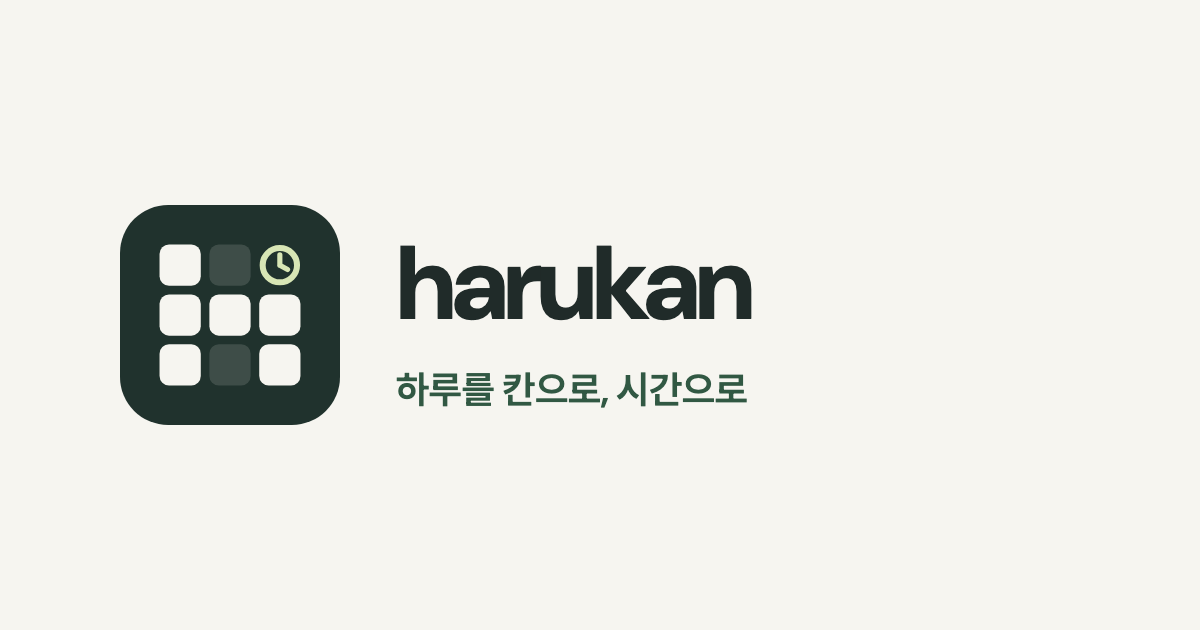
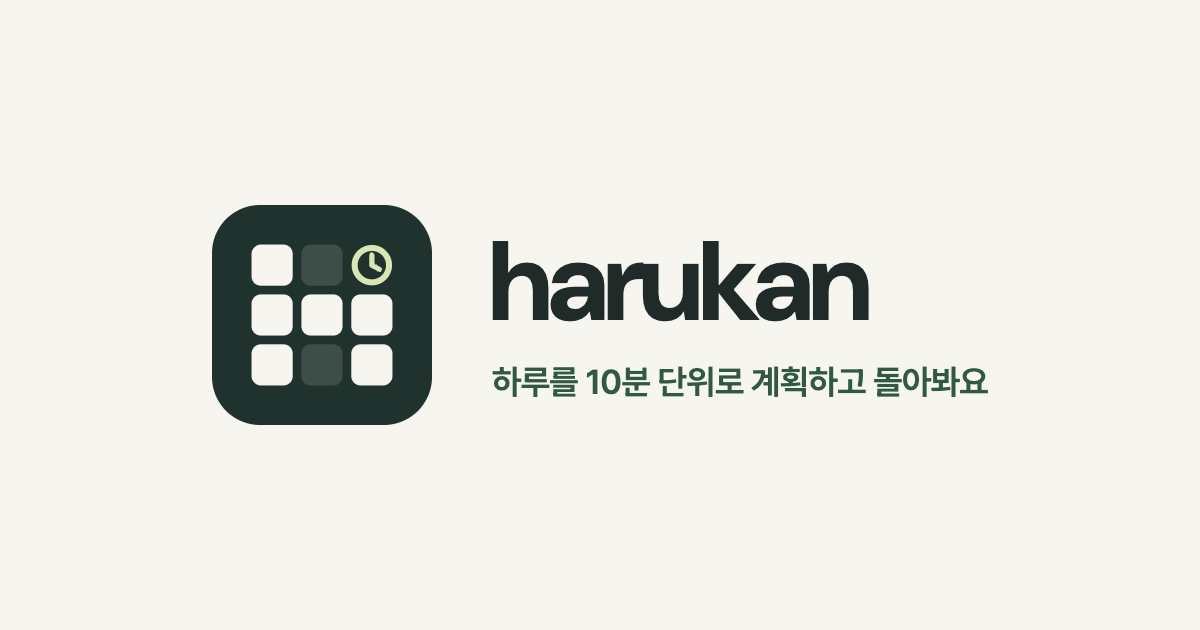
harukan: 공유 미리보기 그림 가운데 정렬·새 문구, 개인정보처리방침을 필수 항목만 짧게, 첫 로딩에 '공개 전 검토 중' 안내가 잠깐 뜨지 않게
- og.png를 가운데로 다시 만들고 '하루를 10분 단위로 계획하고 돌아봐요', og:image에 ?v=20261020 (메신저 캐시)
- 처리방침: 정보 4줄 표, 파기, 위탁·국외 이전 4곳, 쿠키, 권리·책임자, 안전 조치, 변경 (약 절반 길이)
- 법적 안내·가입 준비 안내는 /api/site 응답을 받은 뒤에만 (실패하면 기본값으로 표시)

Changed region(s): [[0.0925, 0.3016, 0.8325, 0.6937]]

diff --git a/apps/harukan/src/legal.tsx b/apps/harukan/src/legal.tsx
@@ -8,33 +8,28 @@ export function Legal({kind,site}:{kind:string;site:Site}) {
     {!site.legalReady&&<p className="notice">{t("공개 전 검토 중인 문서입니다. 운영 환경과 시행일을 확인한 뒤 최종 게시합니다.")}</p>}
     <p className="legal-date">{l.publishedAt?`${pair("시행일","Effective date")} ${l.publishedAt}`:t("시행일: 공개 전 확정 예정")}</p>
     {kind==='privacy'?<>
-      <p>{pair(`${operator}은(는) harukan 플래너를 운영하며 다음과 같이 개인정보를 처리합니다.`, `${operator} operates the harukan planner and processes personal information as described below.`)}</p>
-      <h2>{t("처리하는 정보와 목적")}</h2><table className="policy-table"><thead><tr><th scope="col" id="policy-0-0">{t("정보")}</th><th scope="col" id="policy-0-1">{t("목적")}</th><th scope="col" id="policy-0-2">{t("보유 기간")}</th></tr></thead><tbody>
-      <tr><td headers="policy-0-0" data-label={t("정보")}>{pair("이메일 주소, 닉네임, 이메일 확인 시각, 비밀번호 해시, 가입 시각, 약관 확인 버전","Email address, nickname, email confirmation time, password hash, sign-up time, accepted terms version")}</td><td headers="policy-0-1" data-label={t("목적")}>{pair("회원 식별·로그인·화면 표시·비밀번호 재설정","Identifying members, sign-in, on-screen name, password reset")}</td><td headers="policy-0-2" data-label={t("보유 기간")}>{pair("회원 탈퇴까지(가입 후 하루 안에 이메일을 확인하지 않으면 그때 삭제)","Until you delete your account (deleted after a day if the email is never confirmed)")}</td></tr>
-      <tr><td headers="policy-0-0" data-label={t("정보")}>{t("일정·실제 활동·할 일·메모·날짜·시간대·변경 버전")}</td><td headers="policy-0-1" data-label={t("목적")}>{t("개인 플래너 저장과 조회")}</td><td headers="policy-0-2" data-label={t("보유 기간")}>{t("삭제 또는 회원 탈퇴까지")}</td></tr>
-      <tr><td headers="policy-0-0" data-label={t("정보")}>{pair("이메일 확인·비밀번호 재설정 링크의 해시와 보낼 주소","Hashes of email-check and password-reset links, with the address they go to")}</td><td headers="policy-0-1" data-label={t("목적")}>{pair("이메일 주소 확인·비밀번호 재설정","Confirming an address, resetting a password")}</td><td headers="policy-0-2" data-label={t("보유 기간")}>{pair("사용 즉시 삭제, 미사용 시 확인 링크 하루·재설정 링크 30분 뒤 만료, 이후 1시간 이내 정리","Deleted once used; otherwise check links expire after a day and reset links after 30 minutes, then cleared within an hour")}</td></tr>
-      <tr><td headers="policy-0-0" data-label={t("정보")}>{t("로그인 세션 식별자와 요청 확인 값")}</td><td headers="policy-0-1" data-label={t("목적")}>{t("로그인 유지·요청 검증")}</td><td headers="policy-0-2" data-label={t("보유 기간")}>{pair("로그아웃하거나 마지막 이용 후 30일","Until you sign out, or 30 days after your last visit")}</td></tr>
-      <tr><td headers="policy-0-0" data-label={t("정보")}>{pair("IP 주소·이메일에서 만든 시도 제한용 해시","Rate-limit hashes made from IP address and email")}</td><td headers="policy-0-1" data-label={t("목적")}>{pair("로그인·가입·재설정 남용 방지","Preventing abuse of sign-in, sign-up and reset")}</td><td headers="policy-0-2" data-label={t("보유 기간")}>{t("최대 24시간 뒤 만료, 이후 1시간 이내 정리")}</td></tr>
-      <tr><td headers="policy-0-0" data-label={t("정보")}>{t("탈퇴한 계정의 무작위 식별자와 탈퇴 시각")}</td><td headers="policy-0-1" data-label={t("목적")}>{t("장애 복구 시 탈퇴 계정의 재생성 방지")}</td><td headers="policy-0-2" data-label={t("보유 기간")}>{t("8일 뒤 만료, 이후 1시간 이내 정리")}</td></tr>
-      <tr><td headers="policy-0-0" data-label={t("정보")}>{t("문의 이메일과 이용자가 보낸 내용")}</td><td headers="policy-0-1" data-label={t("목적")}>{t("문의 처리")}</td><td headers="policy-0-2" data-label={t("보유 기간")}>{t("처리 완료 후 1년. 삭제 요청 시 별도 법적 보존 사유를 확인해 처리")}</td></tr>
+      {/* Short on purpose: each item the law asks for (항목·목적·기간, 파기, 위탁·국외 이전, 쿠키, 권리, 책임자, 안전조치, 변경), once. */}
+      <p>{pair(`${operator}은(는) harukan을 운영하며 아래와 같이 개인정보를 처리합니다. 개인정보를 제3자에게 제공하지 않습니다.`, `${operator} runs harukan and handles personal information as below. We do not give personal information to third parties.`)}</p>
+      <h2>{pair("처리하는 정보","What we keep")}</h2><table className="policy-table"><thead><tr><th scope="col" id="policy-0-0">{pair("정보","Information")}</th><th scope="col" id="policy-0-1">{pair("목적","Purpose")}</th><th scope="col" id="policy-0-2">{pair("보유 기간","Kept for")}</th></tr></thead><tbody>
+        <tr><td headers="policy-0-0" data-label={pair("정보","Information")}>{pair("이메일, 닉네임, 비밀번호(해시로만), 가입·이메일 확인 시각","Email, nickname, password (hash only), sign-up and email confirmation times")}</td><td headers="policy-0-1" data-label={pair("목적","Purpose")}>{pair("가입·로그인·비밀번호 재설정","Sign-up, sign-in, password reset")}</td><td headers="policy-0-2" data-label={pair("보유 기간","Kept for")}>{pair("탈퇴까지. 가입 후 하루 안에 이메일을 확인하지 않으면 삭제","Until you delete your account; deleted after a day if the email is never confirmed")}</td></tr>
+        <tr><td headers="policy-0-0" data-label={pair("정보","Information")}>{pair("일정·할 일·메모·목표, 시간대","Schedule, tasks, notes, goals, time zone")}</td><td headers="policy-0-1" data-label={pair("목적","Purpose")}>{pair("플래너 저장과 조회","Storing and showing your planner")}</td><td headers="policy-0-2" data-label={pair("보유 기간","Kept for")}>{pair("직접 지우거나 탈퇴할 때까지","Until you delete it or your account")}</td></tr>
+        <tr><td headers="policy-0-0" data-label={pair("정보","Information")}>{pair("로그인 세션, 메일 링크, 시도 제한용 IP 해시","Login session, mail links, hashed IP for rate limits")}</td><td headers="policy-0-1" data-label={pair("목적","Purpose")}>{pair("로그인 유지와 보안","Staying signed in, security")}</td><td headers="policy-0-2" data-label={pair("보유 기간","Kept for")}>{pair("세션 30일, 확인 링크 하루·재설정 링크 30분, 시도 기록 24시간","Session 30 days, check link 1 day, reset link 30 minutes, attempt records 24 hours")}</td></tr>
+        <tr><td headers="policy-0-0" data-label={pair("정보","Information")}>{pair("문의한 이메일 주소와 내용","Your email address and message when you contact us")}</td><td headers="policy-0-1" data-label={pair("목적","Purpose")}>{pair("문의 답변","Answering you")}</td><td headers="policy-0-2" data-label={pair("보유 기간","Kept for")}>{pair("처리 후 1년","1 year after it is resolved")}</td></tr>
       </tbody></table>
-      <p>{pair("비밀번호는 원문으로 저장하지 않습니다. 회원가입에는 이메일과 닉네임만 받고 전화번호·주소·실명은 요구하지 않습니다. 닉네임은 본인 화면에만 보입니다. 입력한 메모 자체에 개인정보가 포함될 수 있습니다.","Passwords are never stored in plain text. Sign-up asks only for an email and a nickname — no phone number, address or real name. The nickname shows only on your own screens. Notes you write may themselves contain personal information.")}</p>
-      <h2>{t("파기와 백업")}</h2><p>{pair("회원 탈퇴 시 계정·세션·메일 링크·일정·할 일·메모·목표와 계획을 운영 데이터베이스에서 삭제합니다. 장애 복구용 백업은 같은 서버에 매일 만들고 7일이 지난 사본은 다음 백업 실행 때 제거합니다. 탈퇴 이전 백업에 남은 자료도 이 주기에 따라 제거하며, 백업 복구 시 별도 탈퇴 기록을 적용하고 모든 로그인 세션을 폐기합니다. 이용자가 내보낸 사본은 이용자가 관리합니다. 문의 메일은 처리 완료 후 1년이 지나면 운영자가 삭제합니다.","Account deletion removes your account, sessions, mail links, schedule, tasks, notes, goals and plans from the live database. Recovery backups are made daily on the same server; copies older than 7 days are removed on the next backup run. Data remaining in a backup made before account deletion is removed on that schedule. Restoring a backup applies a separate deletion journal and discards all login sessions. You manage any copies you export. The operator deletes inquiry emails 1 year after the inquiry is resolved.")}</p>
-      <h2>{t("처리 위탁과 국외 이전")}</h2><p>{pair("온라인 저장과 안전한 접속에 필요한 처리 위탁·보관을 위해 아래 제공자를 이용합니다. 서버 저장 지역은", "We use the following providers for the processing and storage needed for online records and secure access. Server storage location:")}{' '}{l.hostingRegion?(l.hostingRegion.includes("ap-osaka-1")?pair(l.hostingRegion,"Osaka, Japan (ap-osaka-1)"):l.hostingRegion):pair("배포 전 확인 예정","To be confirmed before deployment")}{pair("입니다. 서버 저장, 접속 처리 및 문의 전달은 이용자가 가입·저장·접속·문의할 때 네트워크를 통해 이루어집니다.",". Server storage, connection processing, and inquiry forwarding take place over the network when you register, save, connect, or contact us.")}</p>
-      <table className="policy-table"><thead><tr><th scope="col" id="policy-1-0">{t("제공자·처리 위치")}</th><th scope="col" id="policy-1-1">{t("항목·목적")}</th><th scope="col" id="policy-1-2">{t("기간·연락처")}</th></tr></thead><tbody>
-        <tr><td headers="policy-1-0" data-label={t("제공자·처리 위치")}>{t("Oracle Corporation · 일본 오사카")}</td><td headers="policy-1-1" data-label={t("항목·목적")}>{t("계정 해시·플래너 자료·백업의 서버 보관")}</td><td headers="policy-1-2" data-label={t("기간·연락처")}>{t("위 보유·백업 기간 적용.")}{' '}<a href="https://www.oracle.com/legal/privacy/services-privacy-policy/">{t("Oracle 개인정보 안내·문의")}</a></td></tr>
-        <tr><td headers="policy-1-0" data-label={t("제공자·처리 위치")}>{t("Cloudflare, Inc. · 미국 및 글로벌 네트워크")}</td><td headers="policy-1-1" data-label={t("항목·목적")}>{t("접속 IP·요청·전송 내용의 보안 연결과 전달, 문의 이메일 라우팅")}</td><td headers="policy-1-2" data-label={t("기간·연락처")}>{t("접속·전달 수행 및 제공자의 보안 로그 정책에 따른 기간.")}{' '}<a href="https://www.cloudflare.com/privacypolicy/">{t("Cloudflare 개인정보 안내·문의")}</a></td></tr>
-        <tr><td headers="policy-1-0" data-label={t("제공자·처리 위치")}>{pair("Resend, Inc. · 미국 (발송 지역 일본 도쿄)","Resend, Inc. · United States (sending region Tokyo, Japan)")}</td><td headers="policy-1-1" data-label={t("항목·목적")}>{pair("받는 이메일 주소와 메일 내용(확인·재설정 링크)의 발송","Sending account mail: the recipient address and the message (check and reset links)")}</td><td headers="policy-1-2" data-label={t("기간·연락처")}>{pair("발송 기록은 제공자 정책에 따른 기간.","Delivery records per the provider’s policy.")}{' '}<a href="https://resend.com/legal/privacy-policy">{pair("Resend 개인정보 안내","Resend privacy policy")}</a></td></tr>
-        <tr><td headers="policy-1-0" data-label={t("제공자·처리 위치")}>{t("Google LLC · 미국 및 글로벌 서버")}</td><td headers="policy-1-1" data-label={t("항목·목적")}>{t("이용자가 보낸 이메일 주소·문의 내용의 Gmail 전달 수신·보관")}</td><td headers="policy-1-2" data-label={t("기간·연락처")}>{t("문의 처리 완료 후 1년.")}{' '}<a href="https://policies.google.com/privacy?hl=ko">{t("Google 개인정보 안내·문의")}</a></td></tr>
+      <h2>{pair("파기","Deletion")}</h2><p>{pair("탈퇴하면 운영 데이터베이스에서 바로 지웁니다. 장애 복구용 백업(같은 서버, 7일 보관)에 남은 사본도 7일 안에 함께 지워집니다.","Deleting your account removes your data from the live database at once. Copies in recovery backups (same server, kept 7 days) are gone within 7 days.")}</p>
+      <h2>{pair("처리 위탁과 국외 이전","Processors and transfers abroad")}</h2>
+      <table className="policy-table"><thead><tr><th scope="col" id="policy-1-0">{pair("받는 곳 (국가)","Recipient (country)")}</th><th scope="col" id="policy-1-1">{pair("항목·목적","Items and purpose")}</th></tr></thead><tbody>
+        <tr><td headers="policy-1-0" data-label={pair("받는 곳 (국가)","Recipient (country)")}><a href="https://www.oracle.com/legal/privacy/services-privacy-policy/">Oracle Corporation</a> {pair("(일본 오사카)","(Osaka, Japan)")}</td><td headers="policy-1-1" data-label={pair("항목·목적","Items and purpose")}>{pair("위 정보 전체·백업의 서버 보관","Server storage of everything above and its backups")}</td></tr>
+        <tr><td headers="policy-1-0" data-label={pair("받는 곳 (국가)","Recipient (country)")}><a href="https://www.cloudflare.com/privacypolicy/">Cloudflare, Inc.</a> {pair("(미국 등)","(US and others)")}</td><td headers="policy-1-1" data-label={pair("항목·목적","Items and purpose")}>{pair("접속 IP와 요청의 보안 연결·전달, 문의 메일 전달","Secure connection and delivery of IPs and requests, forwarding contact mail")}</td></tr>
+        <tr><td headers="policy-1-0" data-label={pair("받는 곳 (국가)","Recipient (country)")}><a href="https://resend.com/legal/privacy-policy">Resend, Inc.</a> {pair("(미국, 발송은 일본)","(US, sent from Japan)")}</td><td headers="policy-1-1" data-label={pair("항목·목적","Items and purpose")}>{pair("이메일 주소와 확인·재설정 메일 발송","Email address, sending check and reset mail")}</td></tr>
+        <tr><td headers="policy-1-0" data-label={pair("받는 곳 (국가)","Recipient (country)")}><a href="https://policies.google.com/privacy">Google LLC</a> {pair("(미국 등)","(US and others)")}</td><td headers="policy-1-1" data-label={pair("항목·목적","Items and purpose")}>{pair("문의 메일 수신·보관(Gmail)","Receiving and keeping contact mail (Gmail)")}</td></tr>
       </tbody></table>
-      <p>{t("Cloudflare와 Google의 네트워크 처리 위치는 요청 경로와 제공자 운영에 따라 달라지며 국내에만 한정되지 않습니다. 서버 자료를 별도 외부 저장소에 복제하는 기능은 현재 사용하지 않습니다. 운영 앱은 요청 본문·비밀번호 원문을 로그로 남기지 않습니다. 제공자의 처리 범위는 각 개인정보 안내에서 확인할 수 있습니다.")}</p>
-      <p>{pair("국외 보관·처리를 원하지 않으면 가입·저장 전에 이용을 중단하거나 설정에서 자료를 내보내고 탈퇴할 수 있습니다. 개인정보 처리에 관한 문의·중단 요청은","If you do not want international storage or processing, you can stop before registering or saving, or export your data and delete your account in Settings. Send privacy inquiries and requests to stop processing to")}{' '}<a href={`mailto:${l.contact}`}>{l.contact}</a>{pair("로 받습니다. 온라인 저장에 필요한 처리를 중단하면 서비스 이용이 제한될 수 있습니다.",". Stopping processing required for online storage may limit your use of the service.")}</p>
-      <p>{t("광고·행동 분석 SDK·외부 AI 실행 기능은 이 플래너에 포함하지 않습니다. 사용자 일정과 메모를 다른 방문자에게 공개하는 기능도 제공하지 않습니다.")}</p>
-      <h2>{t("기기 저장과 쿠키")}</h2><p>{t("로그인 유지를 위한 필수 세션 쿠키를 사용합니다. 선택한 글자 크기·언어와 저장 실패 시 초안은 현재 브라우저에 남을 수 있습니다. 초안은 계정·날짜별로 구분하고 로그인한 해당 계정에서 복구합니다. 공용 기기에서는 로그아웃과 브라우저 자료 관리를 이용해 주세요.")}</p>
-      <h2>{t("이용자의 권리와 문의")}</h2><p>{t("설정에서 자료 내보내기와 회원 탈퇴를 이용할 수 있습니다. 개인정보 열람·정정·삭제·처리정지 요청은 아래 이메일로 받습니다. 본인 확인에 필요한 최소한의 절차를 안내합니다.")}</p>
-      <p>{t("개인정보 담당:")}{' '}{l.privacyContact||operator}<br/>{t("문의:")}{' '}<a href={`mailto:${l.contact}`}>{l.contact}</a></p>
-      <h2>{t("보호 조치와 아동 이용")}</h2><p>{t("비밀번호 해시, HTTPS 운영 연결, 계정별 조회·쓰기 범위, 세션 쿠키, 요청 검증과 로그인 시도 제한을 적용합니다. 만 14세 미만 가입은 현재 제공하지 않습니다.")}</p>
-      <h2>{t("변경 안내")}</h2><p>{t("내용이 바뀌면 시행일과 변경 사항을 이 페이지에 게시합니다. 권리에 중요한 영향을 주는 변경은 서비스 안내를 통해 별도로 알립니다.")}</p>
+      <p>{pair("가입·저장·접속·문의할 때마다 네트워크로 전송되며, 보유 기간은 위 표와 같습니다(Cloudflare·Resend는 각 회사 정책). 국외 이전을 원하지 않으면 가입하지 않거나 탈퇴할 수 있지만, 이 경우 서비스를 이용할 수 없습니다.","Data is sent over the network each time you sign up, save, connect or contact us, and kept as in the table above (Cloudflare and Resend under their own policies). If you do not want transfers abroad, do not sign up or delete your account; the service cannot be used without them.")}</p>
+      <h2>{pair("쿠키와 브라우저 저장","Cookies and browser storage")}</h2><p>{pair("로그인 유지용 필수 쿠키만 씁니다. 언어·테마·글자 크기와 저장하지 못한 초안은 이 브라우저에만 남습니다. 광고·분석 도구는 쓰지 않습니다.","We use only the cookie needed to keep you signed in. Language, theme, text size and unsaved drafts stay in this browser only. No ads or analytics.")}</p>
+      <h2>{pair("이용자의 권리","Your rights")}</h2><p>{pair("설정에서 자료를 내보내거나 탈퇴할 수 있습니다. 열람·정정·삭제·처리정지는 아래 이메일로 요청해 주세요.","Export your data or delete your account in Settings. To see, correct, delete or stop processing your information, email us below.")}</p>
+      <p>{pair("개인정보 보호책임자:","Privacy officer:")}{' '}{l.privacyContact||operator}<br/>{pair("문의:","Contact:")}{' '}<a href={`mailto:${l.contact}`}>{l.contact}</a></p>
+      <h2>{pair("안전 조치","Safeguards")}</h2><p>{pair("비밀번호는 해시로만 저장하고, HTTPS 연결, 계정별 접근 제한, 로그인 시도 제한을 적용합니다. 만 14세 미만은 가입할 수 없습니다.","Passwords are stored only as hashes; HTTPS, per-account access limits and sign-in attempt limits apply. People under 14 cannot sign up.")}</p>
+      <h2>{pair("변경","Changes")}</h2><p>{pair("내용이 바뀌면 시행일과 함께 이 페이지에 게시합니다.","Changes are posted on this page with a new effective date.")}</p>
     </>:kind==='terms'?<>
       <p>{pair(`이 약관은 ${operator}이(가) 제공하는 harukan 플래너의 이용에 적용됩니다.`, `These terms apply to use of the harukan planner provided by ${operator}.`)}</p>
       <h2>{t("서비스와 회원가입")}</h2><p>{pair("서비스는 목표와 세부 계획, 하루 시간표·할 일·메모, 그리고 이를 모은 회고의 저장과 조회를 제공합니다. 만 14세 이상 이용자가 이메일·닉네임·비밀번호를 정하고 약관을 확인해 가입합니다. 타인의 이메일·계정·자료를 무단으로 쓰거나 서비스 운영을 방해하는 행위는 허용하지 않습니다.","The service stores and shows your goals and their steps, daily timetables, tasks and notes, and reviews built from them. Anyone aged 14 or older can sign up by choosing an email, a nickname and a password and accepting these terms. Using someone else’s email, account or records without permission, or disrupting the service, is not allowed.")}</p>

diff --git a/apps/harukan/src/style.css b/apps/harukan/src/style.css
@@ -9,7 +9,7 @@ input:not([type=checkbox]):not([type=radio]):focus-visible,select:focus-visible,
 .auth-page{max-width:440px;min-height:calc(100vh - 290px);padding:56px 24px 72px;margin:auto}.auth-page h1{font-size:28px;line-height:1.4}.auth-page>p{margin-top:16px;color:var(--muted)}.auth-page form{margin-top:30px}.auth-page form>label:not(.checkbox){margin-top:22px;margin-bottom:8px}.auth-page form>small{display:block;margin-top:10px}.auth-page .primary{width:100%;margin-top:24px}.checkbox{display:flex;align-items:flex-start;gap:10px;font-weight:400;line-height:1.6;min-height:44px}.checkbox input{margin-top:4px}.auth-consents{display:grid;gap:4px;margin-top:20px}.auth-page .auth-consents .checkbox{display:grid;grid-template-columns:18px minmax(0,1fr);align-items:start;margin:0;padding:12px 0;font-size:13px;line-height:1.6}.auth-page .auth-consents .checkbox input{font:inherit;margin:calc((1.6em - 18px)/2) 0 0;padding:0}.auth-consents .checkbox span{min-width:0}.auth-links{margin-top:26px;display:flex;flex-direction:column;gap:14px;font-size:13px}.recovery-code{display:block;font-size:15px;overflow-wrap:anywhere;line-height:1.8;padding:18px;background:var(--hover);margin:24px 0;border-radius:8px;user-select:all}.legal-page{max-width:860px;padding:52px 24px 80px;margin:auto;font-size:16px;line-height:1.85}.legal-page h1{font-size:32px;margin:24px 0}.legal-page h2{font-size:22px;margin:40px 0 14px}.legal-page p+p{margin-top:16px}.legal-date{font-size:13px;color:var(--muted)}.legal-page table{border-collapse:collapse;width:100%;font-size:14px;line-height:1.7;overflow-wrap:anywhere}.legal-page th{text-align:left;background:var(--hover)}.legal-page th,.legal-page td{border-bottom:1px solid var(--line);padding:14px;vertical-align:top}.legal-page td:nth-child(1){width:42%}.legal-page td:nth-child(3){width:28%}.legal-page dl{display:grid;grid-template-columns:120px 1fr;gap:12px}.legal-page dd{margin:0}.contact-address{font-size:clamp(20px,5vw,30px);display:inline-block;margin:24px 0;font-weight:650;word-break:break-all}
 .app-nav{display:flex;gap:30px;align-items:stretch;height:100%;margin-right:auto;margin-left:40px}.app-nav a{display:flex;align-items:center;text-decoration:none;color:var(--muted);font-weight:600;border-bottom:2px solid transparent;padding:0 4px}.app-nav a.active{color:var(--action);border-color:var(--action)}.account-actions{display:flex;gap:8px;align-items:center;font-size:12px}.account-actions a{color:var(--muted)}.account-actions button{width:44px;height:44px;color:var(--muted)}.settings-page{max-width:1100px;margin:auto;padding:40px 24px 90px}.settings-page{max-width:880px}.save-status{margin-left:auto;font-size:11px}.demo-label{max-width:1100px;margin:24px auto 0;padding:12px 24px;background:var(--hover);display:flex;justify-content:space-between;gap:10px;align-items:center;font-size:12px;color:var(--muted)}.demo-label a{display:flex;align-items:center;gap:4px;white-space:nowrap}.item-form{background:var(--surface);padding:24px;margin-bottom:28px;border-radius:12px;max-width:680px}.item-form h2{font-size:18px;margin-bottom:20px}.item-form>label{margin-bottom:8px}.item-form .form-pair{margin-top:16px}.item-form .form-actions{margin-top:24px}.segmented{display:inline-flex;background:var(--hover);padding:4px;border-radius:8px;gap:4px}.segmented button{min-height:40px;padding:8px 14px;color:var(--muted)}.segmented .selected{background:var(--surface);color:var(--action);font-weight:600}.empty-state{color:var(--muted);padding:28px 0;line-height:1.8}.page-intro{margin-top:14px;color:var(--muted);max-width:65ch}.settings-page section{margin-top:38px;padding-top:28px;border-top:1px solid var(--line)}.settings-page section h2{font-size:19px;margin-bottom:16px}.settings-page section p{color:var(--muted);margin:12px 0}.settings-form{max-width:440px}.settings-form label{margin:16px 0}.settings-form .secondary{margin-top:8px}
 @media(max-width:900px){.site-header{padding:0 24px}.app-nav{margin-left:12px}}
-@media(max-width:640px){:root{--font-body:14px}h1{font-size:27px}.site-header{height:66px;padding:0 18px;gap:12px}.brand{font-size:23px;gap:8px}.brand img{width:30px;height:30px}.mobile-menu{display:block;width:44px;height:44px;color:var(--muted)}.public-nav{display:none}.public-nav.open{display:flex;position:absolute;top:66px;left:0;right:0;background:var(--surface);z-index:10;padding:20px;flex-wrap:wrap;gap:20px}.site-footer{padding:32px 22px;display:block}.site-footer nav{display:flex;flex-wrap:wrap;gap:18px;margin:24px 0}.site-footer p{margin-top:20px}.auth-page{padding-top:38px}.auth-page input,.settings-page input,.item-form input,.item-form select{font-size:16px}.legal-page{font-size:15px;padding:32px 20px 60px}.legal-page h1{font-size:28px}.legal-page .policy-table{display:block;font-size:14px;line-height:1.75;overflow-wrap:break-word;word-break:normal}.policy-table thead{position:absolute;width:1px;height:1px;margin:-1px;overflow:hidden;clip:rect(0,0,0,0);white-space:nowrap}.policy-table tbody{display:block}.policy-table tbody tr{display:block;padding:18px 0;border-top:1px solid var(--line)}.legal-page .policy-table td{display:block;width:auto;padding:0;border:0}.legal-page .policy-table td+td{margin-top:14px}.policy-table td::before{content:attr(data-label);display:block;font-weight:650;color:var(--ink);margin-bottom:4px}.legal-page dl{grid-template-columns:90px 1fr}.app-nav{gap:14px;margin:0 auto}.app-nav a{padding:0 2px;font-size:13px}.account-actions{gap:0}.account-actions a{max-width:64px;overflow:hidden;text-overflow:ellipsis}.account-actions button{width:34px;min-width:34px}.site-header:has(.app-nav) .brand span{display:none}.site-header:has(.app-nav) .brand{gap:0}.settings-page{padding:28px 18px 64px}.save-status{width:100%;margin-left:0}.item-form{padding:20px 16px;margin-bottom:24px}.item-form h2{font-size:18px}.form-pair{gap:12px}.segmented{width:100%}.segmented button{flex:1;min-height:44px}.demo-label{margin-top:0;padding:14px 18px;flex-wrap:wrap;line-height:1.6}}
+@media(max-width:640px){:root{--font-body:14px}h1{font-size:27px}.site-header{height:66px;padding:0 18px;gap:12px}.brand{font-size:23px;gap:8px}.brand img{width:30px;height:30px}.mobile-menu{display:block;width:44px;height:44px;color:var(--muted)}.public-nav{display:none}.public-nav.open{display:flex;position:absolute;top:66px;left:0;right:0;background:var(--surface);z-index:10;padding:20px;flex-wrap:wrap;gap:20px}.site-footer{padding:32px 22px;display:block}.site-footer nav{display:flex;flex-wrap:wrap;gap:18px;margin:24px 0}.site-footer p{margin-top:20px}.auth-page{padding-top:38px}.auth-page input,.settings-page input,.item-form input,.item-form select{font-size:16px}.legal-page{font-size:15px;padding:32px 20px 60px}.legal-page h1{font-size:28px}.legal-page .policy-table{display:block;font-size:14px;line-height:1.75;overflow-wrap:break-word;word-break:normal}.policy-table+p{margin-top:16px}.policy-table thead{position:absolute;width:1px;height:1px;margin:-1px;overflow:hidden;clip:rect(0,0,0,0);white-space:nowrap}.policy-table tbody{display:block}.policy-table tbody tr{display:block;padding:18px 0;border-top:1px solid var(--line)}.legal-page .policy-table td{display:block;width:auto;padding:0;border:0}.legal-page .policy-table td+td{margin-top:14px}.policy-table td::before{content:attr(data-label);display:block;font-weight:650;color:var(--ink);margin-bottom:4px}.legal-page dl{grid-template-columns:90px 1fr}.app-nav{gap:14px;margin:0 auto}.app-nav a{padding:0 2px;font-size:13px}.account-actions{gap:0}.account-actions a{max-width:64px;overflow:hidden;text-overflow:ellipsis}.account-actions button{width:34px;min-width:34px}.site-header:has(.app-nav) .brand span{display:none}.site-header:has(.app-nav) .brand{gap:0}.settings-page{padding:28px 18px 64px}.save-status{width:100%;margin-left:0}.item-form{padding:20px 16px;margin-bottom:24px}.item-form h2{font-size:18px}.form-pair{gap:12px}.segmented{width:100%}.segmented button{flex:1;min-height:44px}.demo-label{margin-top:0;padding:14px 18px;flex-wrap:wrap;line-height:1.6}}
 @media(max-width:350px){.account-actions a{display:none}.app-nav{gap:20px}}
 
 .account-actions a{display:inline-flex;align-items:center;gap:6px;min-height:44px;padding:8px}.account-actions button{min-width:44px;width:44px}@media(max-width:640px){.account-actions a{max-width:100px}.account-actions a span{overflow:hidden;text-overflow:ellipsis;white-space:nowrap}.account-actions button{width:44px;min-width:44px}}@media(max-width:350px){.account-actions a{display:inline-flex;min-width:44px}.account-actions a span{display:none}.app-nav{gap:12px}}

diff --git a/apps/harukan/src/main.tsx b/apps/harukan/src/main.tsx
@@ -13,6 +13,7 @@ import {Journal} from './journal/Journal';
 import {journalPath,journalSection,journalView} from './journal/navigation';
 try{document.documentElement.dataset.font=localStorage.getItem('anotar-planner:font')||'small';document.documentElement.dataset.theme=localStorage.getItem('anotar-planner:theme')||'light';}catch{}
 
+// Placeholder until /api/site answers; pages that show legal state wait for the real one (no 'under review' flash).
 const initialSite:Site={legal:{operator:'문성혁',representative:'개인 운영',businessNumber:'',address:'',contact:'support@leneu.store',privacyContact:'문성혁',publishedAt:'',hostingRegion:''},legalReady:false,registration:false,termsVersion:'2026-10-18'};
 // Header: flips light/dark; 'system' (set in 설정) resolves to whatever the OS shows now.
 function ThemeToggle(){
@@ -47,7 +48,7 @@ function Auth({kind,site}:{kind:string;site:Site}) {
   if(forgot&&done)return <main className="auth-page"><h1>{title}</h1><p>{pair(`${done}(으)로 가입한 계정이 있으면 재설정 링크를 보냈어요. 30분 안에 메일의 링크를 열어 주세요. 메일이 안 보이면 스팸함도 확인해 주세요.`,`If an account uses ${done}, a reset link is on its way. Open it within 30 minutes, and check spam if it doesn’t show up.`)}</p><div className="auth-links"><a href="/login">{t("로그인으로")}</a></div></main>;
   return <main className="auth-page"><h1>{title}</h1>
     <p>{signup?t("이메일로 가입하고, 화면에는 닉네임이 보여요."):forgot?t("가입한 이메일로 재설정 링크를 보내요."):reset?t("새 비밀번호를 정해 주세요."):t("내 계획과 기록을 이어서 확인하세요.")}</p>
-    {signup&&!site.registration&&<p className="notice">{t("가입 준비 중이에요.")}{' '}<a href="/demo">{t("먼저 시간표를 체험해 보세요.")}</a></p>}
+    {signup&&site!==initialSite&&!site.registration&&<p className="notice">{t("가입 준비 중이에요.")}{' '}<a href="/demo">{t("먼저 시간표를 체험해 보세요.")}</a></p>}
     {reset&&!linkToken&&<p className="error" role="alert">{t("링크가 올바르지 않아요. 비밀번호 재설정을 다시 요청해 주세요.")}</p>}
     <form onSubmit={submit}>
     {(signup||forgot)&&<><label htmlFor="email">{t("이메일")}</label><input id="email" type="email" value={email} onChange={e=>setEmail(e.target.value)} autoComplete="email" required maxLength={254} placeholder="name@example.com"/></>}
@@ -66,7 +67,7 @@ function App() {
   useEffect(()=>{if(path==='/app/tasks'){const query=new URLSearchParams(location.search);query.delete('task');query.set('view','year');location.replace('/app/plans?'+query);}if(path==='/app/history'){const query=new URLSearchParams(location.search);query.set('view','month');location.replace('/app?'+query);}},[path]);
   useEffect(()=>{
     // Public content renders immediately; unavailable metadata must not replace it.
-    request<Site>('/api/site').then(setSite).catch(()=>{});
+    request<Site>('/api/site').then(setSite).catch(()=>setSite({...initialSite}));
     // The server redirects these when signed in; this covers the dev server.
     if(['/','/login','/signup'].includes(path))request<{user:User|null}>('/api/auth/session').then(r=>{if(r.user)location.replace('/app');}).catch(()=>{});
     if(privatePage)request<{user:User|null;csrf?:string}>('/api/auth/session').then(setSession).catch(()=>setInitError("서버 연결을 확인하지 못했어요. 다시 시도해 주세요."));
@@ -79,7 +80,7 @@ function App() {
   function sectionHref(section:string){const view=section==='plans'?(activeSection==='plans'?journalLocation.view:'year'):section==='review'?'review':activeSection==='schedule'?journalLocation.view:'day';const query=new URLSearchParams();if(journalLocation.date)query.set('date',journalLocation.date);query.set('view',view);return journalPath(view)+(query.size?'?'+query:'');}
   async function logout(){if(!window.dispatchEvent(new Event('anotar-before-leave',{cancelable:true})))return;try{await request('/api/auth/logout','POST',{},csrf);window.location.assign('/login');}catch(e){setInitError((e as Error).message);}}
   return <><header className={`site-header ${privatePage?'app-header':'public-header'}`}><Brand href={privatePage&&user?'/app':'/'}/>{privatePage&&user?<><a className="now-jump" href="/app?now=1" aria-label={pair("오늘 시간표로","Today’s timetable")} title={pair("오늘 시간표로","Today’s timetable")} onClick={e=>{e.currentTarget.blur();if(!window.dispatchEvent(new Event('harukan-now',{cancelable:true})))e.preventDefault();}}><CalendarClock size={19} aria-hidden="true"/></a><nav className="app-nav" aria-label={t("플래너 메뉴")}>{[["schedule","일정","Schedule"],["plans","계획","Plans"],["review","회고","Review"]].map(([section,ko,en])=><a key={section} className={activeSection===section?"active":""} aria-current={activeSection===section?"page":undefined} href={sectionHref(section)}>{pair(ko,en)}</a>)}</nav><span id="save-status" className="header-save"/><div className="account-actions"><a className="account-link" href="/app/settings" aria-label={t("계정 설정")} title={pair("설정","Settings")}><span>{user.nickname}</span><Settings size={17} aria-hidden="true"/></a></div></>:<><nav className={mobileMenu?'public-nav open':'public-nav'} aria-label={t("소개 메뉴")}><a href="/#features">{pair("소개","Features")}</a><a href="/demo">{pair("둘러보기","Try it")}</a><a href="/guide">{pair("쓰는 법","Guide")}</a><a href="/login">{t("로그인")}</a><a className="primary compact nav-start" href="/signup">{pair("무료로 시작","Start free")}</a></nav><div className="header-tools"><LanguageToggle/><ThemeToggle/></div><a className="primary compact header-start" href="/signup">{pair("무료로 시작","Start free")}</a><button className="mobile-menu" onClick={()=>setMobileMenu(!mobileMenu)} aria-label={t("메뉴 열기")} aria-expanded={mobileMenu}><Menu size={22}/></button></>}</header>
-    {initError&&privatePage?<main className="auth-page"><p role="alert">{t(initError)}</p><button className="primary" onClick={()=>window.location.reload()}>{t("다시 연결")}</button><a href="/demo">{pair("가입 없이 둘러보기","Try it without an account")}</a></main>:privatePage?(!session||!user?<main className="auth-page" aria-live="polite">{t("로그인 확인 중…")}</main>:<>{path==='/app/settings'?<SettingsPage user={user} csrf={csrf} onLogout={logout}/>:<Journal user={user} csrf={csrf} onViewChange={onJournalView}/>}</>):demo?<><div className="demo-label">{t("체험용 예시 · 이 화면의 입력은 계정에 저장되지 않아요.")}<a href="/signup">{t("내 시간표 만들기")}<ArrowRight size={15}/></a></div><Journal demo/></>:['/login','/signup','/forgot','/reset','/verify'].includes(path)?<Auth kind={path.slice(1)} site={site}/>:['/privacy','/terms','/about','/contact'].includes(path)?<Legal kind={path.slice(1)} site={site}/>:path==='/guide'?<Guide/>:path==='/'?<Landing/>:<main className="auth-page"><h1>{t("페이지를 찾을 수 없어요.")}</h1><a href="/">{t("서비스 소개로 이동")}</a></main>}
+    {initError&&privatePage?<main className="auth-page"><p role="alert">{t(initError)}</p><button className="primary" onClick={()=>window.location.reload()}>{t("다시 연결")}</button><a href="/demo">{pair("가입 없이 둘러보기","Try it without an account")}</a></main>:privatePage?(!session||!user?<main className="auth-page" aria-live="polite">{t("로그인 확인 중…")}</main>:<>{path==='/app/settings'?<SettingsPage user={user} csrf={csrf} onLogout={logout}/>:<Journal user={user} csrf={csrf} onViewChange={onJournalView}/>}</>):demo?<><div className="demo-label">{t("체험용 예시 · 이 화면의 입력은 계정에 저장되지 않아요.")}<a href="/signup">{t("내 시간표 만들기")}<ArrowRight size={15}/></a></div><Journal demo/></>:['/login','/signup','/forgot','/reset','/verify'].includes(path)?<Auth kind={path.slice(1)} site={site}/>:['/privacy','/terms','/about','/contact'].includes(path)?site===initialSite?null:<Legal kind={path.slice(1)} site={site}/>:path==='/guide'?<Guide/>:path==='/'?<Landing/>:<main className="auth-page"><h1>{t("페이지를 찾을 수 없어요.")}</h1><a href="/">{t("서비스 소개로 이동")}</a></main>}
     {!privatePage&&<Footer site={site}/>}</>;
 }
 createRoot(document.getElementById('root')!).render(<App/>);

diff --git a/apps/harukan/index.html b/apps/harukan/index.html
@@ -13,9 +13,9 @@
     <meta property="og:type" content="website" />
     <meta property="og:site_name" content="harukan" />
     <meta property="og:title" content="harukan · 10분 단위 하루 플래너" />
-    <meta property="og:description" content="하루 24시간을 10분 칸으로 나눈 시간표에 오늘 꼭 할 일을 놓고, 시간이 어느 목표로 갔는지 돌아봐요." />
+    <meta property="og:description" content="하루를 10분 단위로 계획하고, 쓴 시간을 목표별로 돌아보는 플래너." />
     <meta property="og:url" content="https://harukan.leneu.store/" />
-    <meta property="og:image" content="https://harukan.leneu.store/brand/og.png" />
+    <meta property="og:image" content="https://harukan.leneu.store/brand/og.png?v=20261020" />
     <meta property="og:image:width" content="1200" />
     <meta property="og:image:height" content="630" />
     <meta name="twitter:card" content="summary_large_image" />
